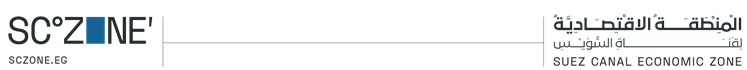
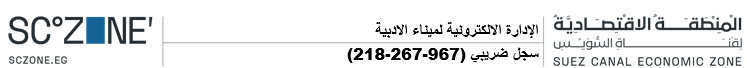
export letter-head and print format

diff --git a/adabia_port/public/js/custom.js b/adabia_port/public/js/custom.js
@@ -17,6 +17,8 @@ const footer_content =
 
   $('footer').html(footer_content)
  
+  const kanban_container = $('.kanban');
+  
 // ----------------------------------------------------------------------------------------
 // composition custom buttons
 function custom_buttons(frm={}) {
@@ -36,10 +38,20 @@ function custom_buttons(frm={}) {
     }).addClass("btn bg-success py-3 px-3 font-weight-bold text-white");
   }
   const reload = () => {
-    frm.add_custom_button('Reload', ()=>{
+    frm.add_custom_button('Reload', () => {
       frm.refresh();
-    }).addClass("btn bg-info py-3 px-3 font-weight-bold text-white");
+    }).addClass(" p-2");
   }
+  const custom_print = (format='', header='', buttonName='Custom Print')=> {
+    frm.add_custom_button(`${buttonName}`, () => {
+      // /printview?doctype=Customer%20Support%20Ticket&name=TKT-003653&trigger_print=1&format=Customer%20Tech%20Support%20TKT%20Payment%20Permit&no_letterhead=0&letterhead=ISFP%20Header&settings=%7B%7D&_lang=ar
+     
+      const print_url = `/printview?doctype=${encodeURIComponent(frm.doctype)}&name=${encodeURIComponent(frm.doc.name)}&trigger_print=1&format=${encodeURIComponent(format)}&no_letterhead=${!!(header) ? 0 : 1}&letterhead=${!!(header) ? encodeURIComponent(header) : encodeURIComponent('No Letterhead')}&settings=%7B%7D&_lang=ar`;
+      // Open the print URL in a new tab
+      window.open(print_url, '_blank');
+    }, 'Print').prepend(`<i class="fa fa-print mx-1"></i>`).addClass("");
+  }
+  
   const toggle_built_in_el_with_date_tag = (data = [[]], is_hide=false) => {
     if (data.length === 0) return
     data.forEach(item => {
@@ -74,9 +86,11 @@ function custom_buttons(frm={}) {
     })
   }
   
+
   return {
     save,
     reload,
+    custom_print,
     toggle_built_in_el_with_date_tag,
     toggle_built_in_el_with_classes,
     setup_btns_for_new_form: () => {

diff --git a/adabia_port/customer_tech_support/doctype/customer_support_ticket/customer_support_ticket.js b/adabia_port/customer_tech_support/doctype/customer_support_ticket/customer_support_ticket.js
@@ -7,7 +7,14 @@ frappe.ui.form.on('Customer Support Ticket', {
 		if (frm.is_new()) {
 			custom_buttons(frm).setup_btns_for_new_form()
 		  } else {
-			custom_buttons(frm).setup_btns_for_saved_form()
+			  const {setup_btns_for_saved_form, custom_print } = custom_buttons(frm)
+			  setup_btns_for_saved_form()
+			  // this ticket has a full custom print format
+			  // /printview?doctype=Customer%20Support%20Ticket&name=TKT-003653&trigger_print=1&format=Customer%20Tech%20Support%20TKT%20Payment%20Permit&no_letterhead=1&letterhead=No%20Letterhead&settings=%7B%7D&_lang=ar
+			custom_print('Customer Tech Support TKT Payment Permit', '', "Payment Permit")
+			// http://10.0.95.56:8000/printview?doctype=Customer%20Support%20Ticket&name=TKT-002429&trigger_print=1&format=Standard&no_letterhead=1&letterhead=No%20Letterhead&settings=%7B%7D&_lang=العربية
+			custom_print(null, 'Global Header', "plain")
+
 		  }
 	},
 	ticket_event(frm) {

diff --git a/adabia_port/hooks.py b/adabia_port/hooks.py
@@ -99,7 +99,8 @@ fixtures = [
         "dt": "Print Format", "filters" : {
             "name": ["in", [
                 "SPS CR Builder Temp",
-                "Custom SPS CR Print Custom Format"
+                "Custom SPS CR Print Custom Format",
+                "Customer Tech Support TKT Payment Permit"
             ]]
         }
     },
@@ -107,7 +108,9 @@ fixtures = [
         "dt": "Letter Head", "filters": {
             "name": ["in", [
                 "IT Letter Head",
-                "Logistics Header"
+                "Logistics Header",
+                "Global Header",
+                "ISFP Header"
             ]]
         }
     },
@@ -187,8 +190,7 @@ fixtures = [
 add_to_apps_screen = [
 	{
 		"name": "adabia_port",
-		# "logo": "/assets/adabia_port/logo.png",
-		"logo": "/assets/adabia_port/icons/infra.svg",
+		"logo": "/assets/adabia_port/images/favicon-32x32.png",
 		"title": "Adabia Port",
 		"route": "/",
 	    # "has_permission": "adabia_port.api.permission.has_app_permission"
